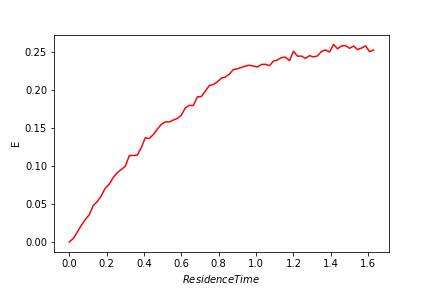
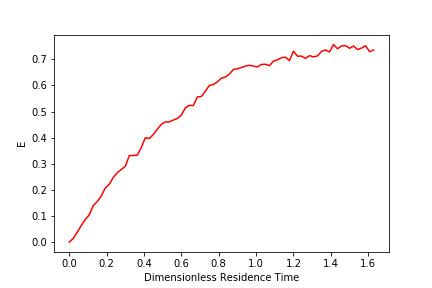
asd

diff --git a/Lab5/team10_lab5_new.md b/Lab5/team10_lab5_new.md
@@ -116,31 +116,7 @@ While it is difficult to compare the values of N and Pe since only data collecte
 
 #### Report the values of t^{\star} at F = 0.1 for each of your experiments. Do they meet your expectations? ####
 
-```python
-
-CMFR_3_E = ((CMFR_3_concentration_data*CMFR_3_V)/(CMFR_3_AD.C_bar*CMFR_3_V)).to(u.dimensionless)
-
-plt.plot((CMFR_3_time_data/CMFR_3_theta_hydraulic
-).to(u.dimensionless), CMFR_3_E.to(u.dimensionless),'r')
-plt.xlabel(r'$Residence Time $')
-plt.ylabel(r'E')
-plt.savefig('Lab5/CMFR3_CMFR_E.png')
-plt.show()
-
-CMFR_3_F = no.zeros(CMFR_3_E.size)
-for i in range (CMFR_3_E.size):
-
-AD_3_E = epa.E_Advective_Dispersion((CMFR_3_time_data/CMFR_3_AD.theta).to_base_units(), CMFR_3_AD.Pe)
-
-plt.plot((CMFR_3_time_data/CMFR_3_theta_hydraulic
-).to(u.dimensionless), AD_3_E.to(u.dimensionless),'r')
-plt.xlabel(r'$Residence Time $')
-plt.ylabel(r'E')
-plt.savefig('Lab5/CMFR3_AD_E.png')
-plt.show()
-
-
-```
+tstar for 2 baffles = 1.92 minutes
 
 In our reactor, there was no evidence of "short circuiting". The influent was mixed throughout most of the container before flowing out as effluent as different parts of the flow reactor was seen to turn red visibly. There was no evidence of red dye seeping between the wall of the reactor and the baffle instead of flowing through the orifices. This was one of the reason we decided to use red dye as our contaminant.
 
@@ -213,6 +189,30 @@ plt.xlabel(r'$time (min)$')
 plt.ylabel(r'Concentration $\left ( \frac{mg}{L} \right )$')
 plt.legend(['Measured dye','CMFR Model'])
 plt.savefig('Lab5/CMFR1.png')
+plt.show()
+
+CMFR_1_E = ((CMFR_1_concentration_data*CMFR_1_V)/(CMFR_1_CMFR.C_bar*CMFR_1_V)).to(u.dimensionless)
+CMFR_1_dimensionless_time = CMFR_1_time_data/CMFR_1_theta_hydraulic
+plt.plot(CMFR_1_dimensionless_time.to(u.dimensionless), CMFR_1_E.to(u.dimensionless),'r')
+plt.xlabel(r'Dimensionless Residence Time')
+plt.ylabel(r'E')
+plt.savefig('Lab5/CMFR1_CMFR_E.png')
+plt.show()
+
+CMFR_1_F = np.zeros(CMFR_1_E.size)
+for i in range (CMFR_1_E.size):
+  CMFR_1_F[i] = np.trapz(CMFR_1_E[0:i], CMFR_1_dimensionless_time[0:i])
+  if CMFR_1_F[i] <.1:
+    print("F is not over 0.1 at " +str(CMFR_1_dimensionless_time[i]))
+  else:
+    print("F is over 0.1 at " +str(CMFR_1_dimensionless_time[i]))
+
+CMFR_1_tstar = (0.8574*CMFR_1_theta_hydraulic).to(u.min)
+CMFR_1_tstar
+plt.plot(CMFR_1_dimensionless_time.to(u.dimensionless), CMFR_1_F,'r')
+plt.xlabel(r'Dimensionless Residence Time')
+plt.ylabel(r'F')
+plt.savefig('Lab5/CMFR1_CMFR_F.png')
 plt.show()
 
 CMFR_2_path = 'https://raw.githubusercontent.com/lw583/CEE4530/master/Lab5/lab5_cmfr_2.xls'
@@ -295,6 +295,30 @@ plt.xlabel(r'$time (min)$')
 plt.ylabel(r'Concentration $\left ( \frac{mg}{L} \right )$')
 plt.legend(['Measured dye','CMFR Model', 'AD Model'])
 plt.savefig('Lab5/CMFR3.png')
+plt.show()
+
+CMFR_3_E = ((CMFR_3_concentration_data*CMFR_3_V)/(CMFR_3_CMFR.C_bar*CMFR_3_V)).to(u.dimensionless)
+CMFR_3_dimensionless_time = CMFR_3_time_data/CMFR_3_theta_hydraulic
+plt.plot(CMFR_3_dimensionless_time.to(u.dimensionless), CMFR_3_E.to(u.dimensionless),'r')
+plt.xlabel(r'Dimensionless Residence Time')
+plt.ylabel(r'E')
+plt.savefig('Lab5/CMFR3_CMFR_E.png')
+plt.show()
+
+CMFR_3_F = np.zeros(CMFR_3_E.size)
+for i in range (CMFR_3_E.size):
+  CMFR_3_F[i] = np.trapz(CMFR_3_E[0:i], CMFR_3_dimensionless_time[0:i])
+  if CMFR_3_F[i] <.1:
+    print("F is not over 0.1 at " +str(CMFR_3_dimensionless_time[i]))
+  else:
+    print("F is over 0.1 at " +str(CMFR_3_dimensionless_time[i]))
+
+CMFR_3_tstar = (0.493*CMFR_3_theta_hydraulic).to(u.min)
+CMFR_3_tstar
+plt.plot(CMFR_3_dimensionless_time.to(u.dimensionless), CMFR_3_F,'r')
+plt.xlabel(r'Dimensionless Residence Time')
+plt.ylabel(r'F')
+plt.savefig('Lab5/CMFR3_CMFR_F.png')
 plt.show()
 
 CMFR_4_path = 'https://raw.githubusercontent.com/lw583/CEE4530/master/Lab5/lab5_cmfr_4.xls'
